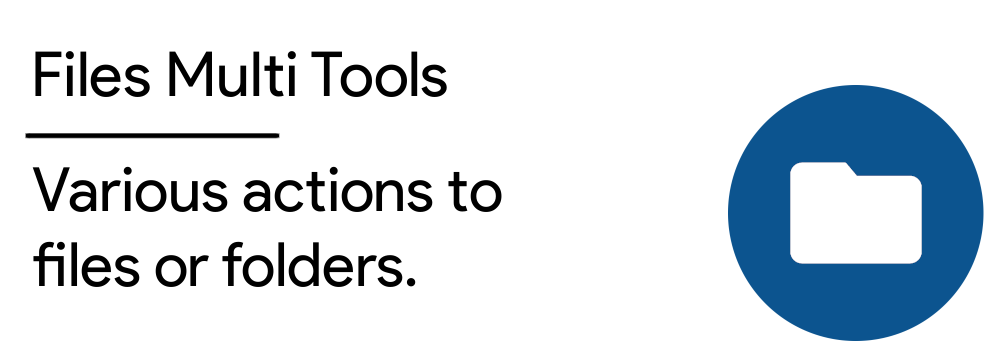
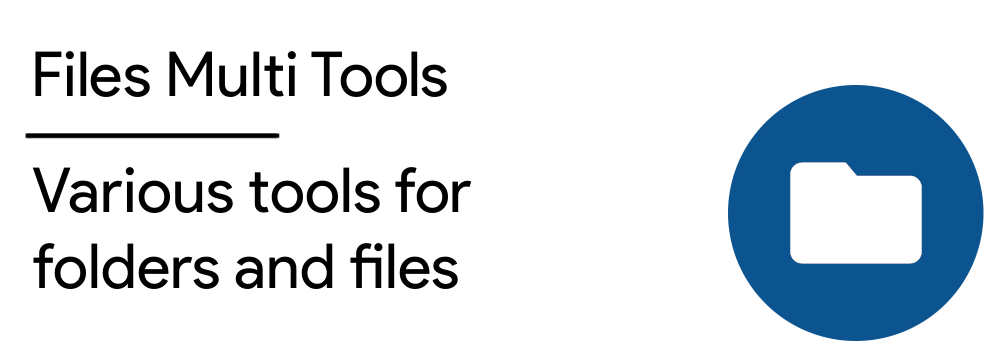
readme update + images update

Changed region(s): [[0.062, 0.4648, 0.527, 0.6197], [0.031, 0.6817, 0.465, 0.8366]]

diff --git a/files-multi-tools.php b/files-multi-tools.php
@@ -1,7 +1,7 @@
 <?php
 
 /**
- * Files Multi Tools - Various tool for folders and files
+ * Files Multi Tools - Various tools for folders and files
  *
  * @see         https://github.com/n-deleforge/files-multi-tools
  * @author    n-deleforge

diff --git a/README.md b/README.md
@@ -20,6 +20,8 @@
     - Modify all file extensions
 - Specific file operations
     - Compare two files
+    - Compare one file with MD5 hash
+    - Compare one file with SHA1 hash
 
 # Quick start
 ## Disclaimer
